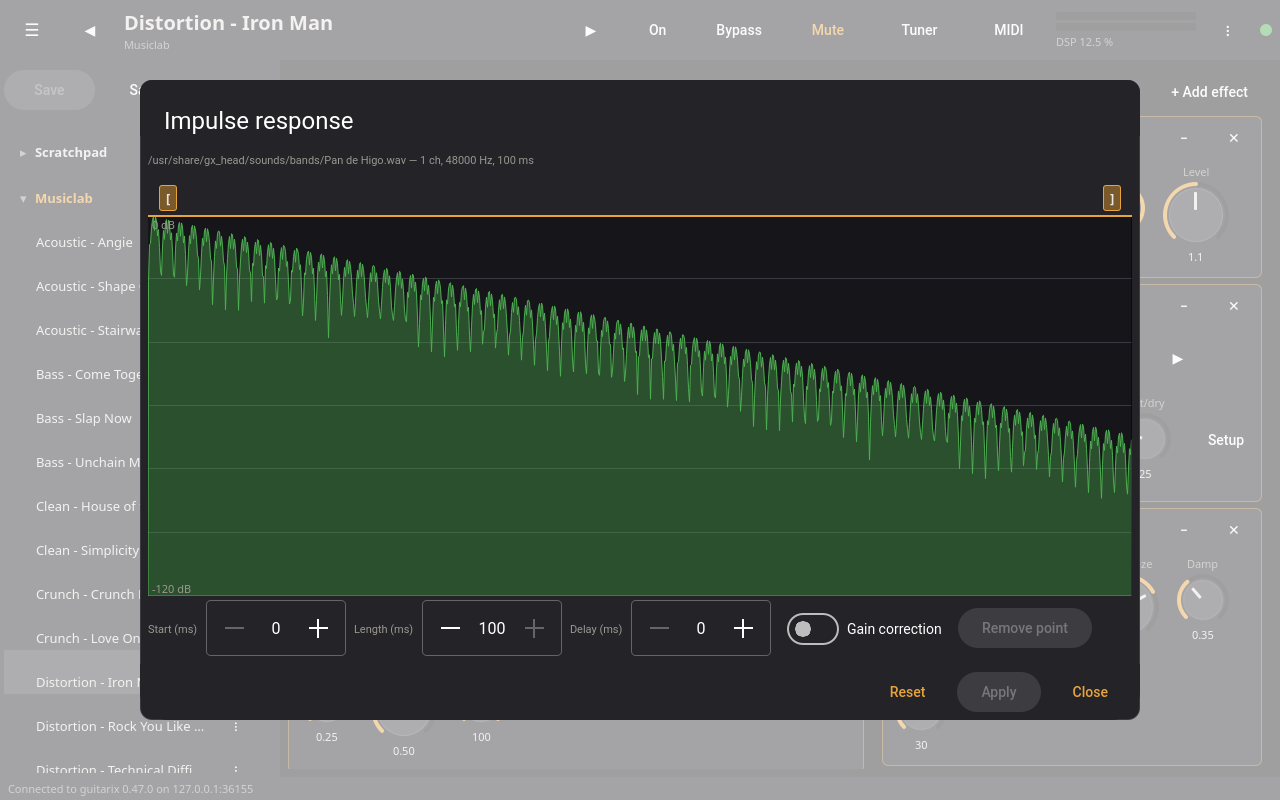
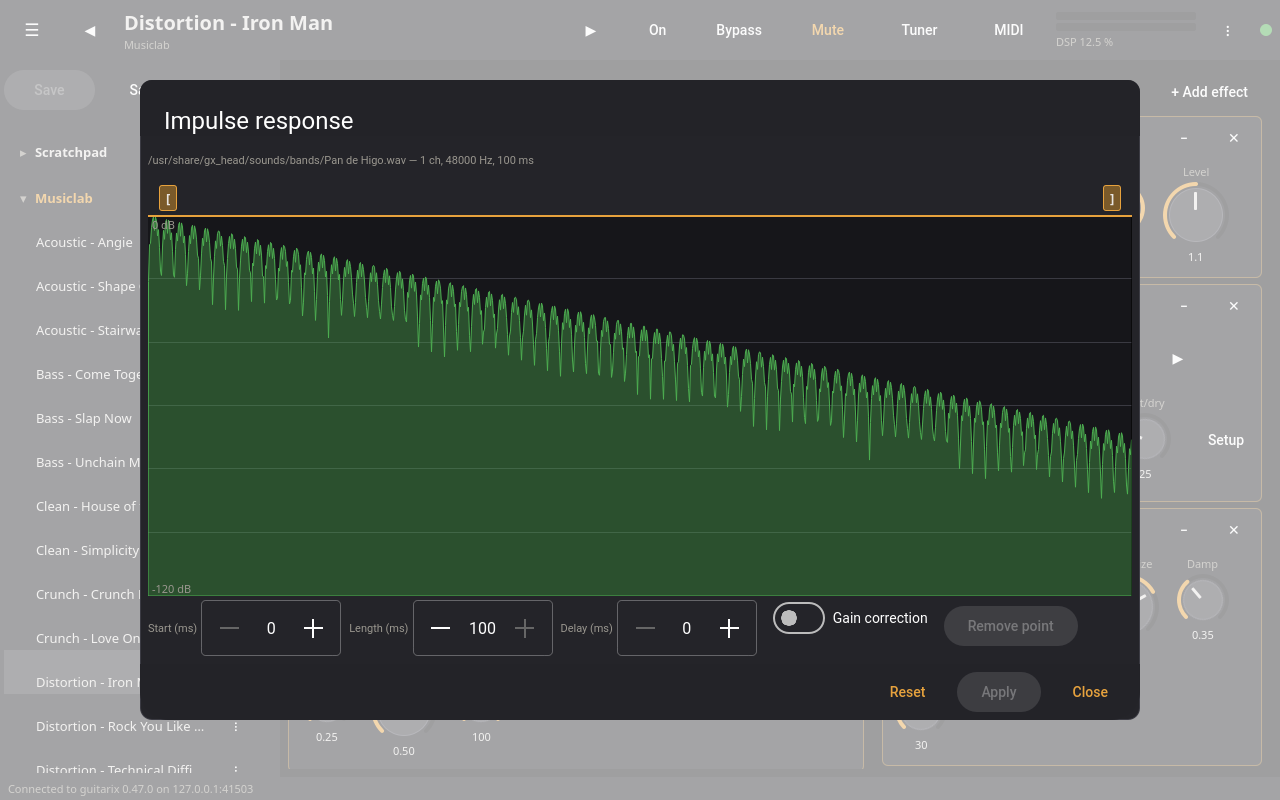
IR editor and sequencer: keep the drag, create the dialogs on first use
- the IR editor handles had a model computed from the settings: the
  first move recreated the handle being dragged and ended the drag
- a closed IR editor no longer follows its convolver (each preset change
  read the whole IR file again)
- the oscilloscope is only polled by its view, while the unit is on
- the IR editor and the drum sequencer are created when first opened
- the IR settings wrap on small screens

diff --git a/qml/IrEditor.qml b/qml/IrEditor.qml
@@ -13,7 +13,6 @@ Dialog {
     // jconv or jconv_mono
     property string unit: ""
     property int selected: -1
-    readonly property bool wide: width >= 640
 
     title: qsTr("Impulse response")
     modal: true
@@ -41,6 +40,9 @@ Dialog {
         unit: root.unit
         onFileLoaded: root.selected = -1
     }
+    // closed, it does not follow the convolver (a preset change would read
+    // the new file); edit() reads it again
+    onClosed: unit = ""
 
     function ms(samples) {
         return ir.rate > 0 ? samples * 1000 / ir.rate : 0
@@ -94,18 +96,17 @@ Dialog {
             enabled: ir.loaded
             visible: ir.loaded
 
+            // a fixed model: a model that changes with the settings would
+            // recreate the handle being dragged
             Repeater {
-                model: [
-                    { name: qsTr("Start"), sample: ir.offset },
-                    { name: qsTr("End"), sample: ir.offset + ir.length - 1 },
-                ]
+                model: 2
                 Item {
                     id: handle
-                    required property var modelData
                     required property int index
+                    readonly property int sample: index === 0 ? ir.offset : ir.offset + ir.length - 1
                     width: Theme.touch
                     height: Theme.touch
-                    x: Math.max(0, Math.min(handles.width - width, view.xForSample(modelData.sample) - width / 2))
+                    x: Math.max(0, Math.min(handles.width - width, view.xForSample(sample) - width / 2))
                     Rectangle {
                         anchors.horizontalCenter: parent.horizontalCenter
                         anchors.bottom: parent.bottom
@@ -218,40 +219,62 @@ Dialog {
             }
         }
 
-        // the settings as numbers, in milliseconds
-        GridLayout {
+        // the settings as numbers, in milliseconds; wraps on small screens
+        Flow {
             Layout.fillWidth: true
-            columns: root.wide ? 8 : 4
-            columnSpacing: Theme.spacing
-            rowSpacing: 2
+            Layout.preferredHeight: childrenRect.height
+            spacing: Theme.spacing
             enabled: ir.loaded
 
-            Label { text: qsTr("Start (ms)"); font.pixelSize: Theme.fontSmall; color: Theme.textDim }
-            SpinBox {
-                from: 0
-                to: Math.max(0, Math.round(root.ms(ir.frames - 1)))
-                value: Math.round(root.ms(ir.offset))
-                editable: true
-                onValueModified: ir.offset = root.samples(value)
+            Row {
+                spacing: 4
+                Label {
+                    anchors.verticalCenter: parent.verticalCenter
+                    text: qsTr("Start (ms)")
+                    font.pixelSize: Theme.fontSmall
+                    color: Theme.textDim
+                }
+                SpinBox {
+                    from: 0
+                    to: Math.max(0, Math.round(root.ms(ir.frames - 1)))
+                    value: Math.round(root.ms(ir.offset))
+                    editable: true
+                    onValueModified: ir.offset = root.samples(value)
+                }
             }
-            Label { text: qsTr("Length (ms)"); font.pixelSize: Theme.fontSmall; color: Theme.textDim }
-            SpinBox {
-                from: 1
-                to: Math.max(1, Math.round(root.ms(ir.frames)))
-                value: Math.round(root.ms(ir.length))
-                editable: true
-                onValueModified: ir.length = root.samples(value)
+            Row {
+                spacing: 4
+                Label {
+                    anchors.verticalCenter: parent.verticalCenter
+                    text: qsTr("Length (ms)")
+                    font.pixelSize: Theme.fontSmall
+                    color: Theme.textDim
+                }
+                SpinBox {
+                    from: 1
+                    to: Math.max(1, Math.round(root.ms(ir.frames)))
+                    value: Math.round(root.ms(ir.length))
+                    editable: true
+                    onValueModified: ir.length = root.samples(value)
+                }
             }
-            Label { text: qsTr("Delay (ms)"); font.pixelSize: Theme.fontSmall; color: Theme.textDim }
-            SpinBox {
-                from: 0
-                to: 10000
-                value: Math.round(root.ms(ir.delay))
-                editable: true
-                onValueModified: ir.delay = root.samples(value)
+            Row {
+                spacing: 4
+                Label {
+                    anchors.verticalCenter: parent.verticalCenter
+                    text: qsTr("Delay (ms)")
+                    font.pixelSize: Theme.fontSmall
+                    color: Theme.textDim
+                }
+                SpinBox {
+                    from: 0
+                    to: 10000
+                    value: Math.round(root.ms(ir.delay))
+                    editable: true
+                    onValueModified: ir.delay = root.samples(value)
+                }
             }
             Switch {
-                Layout.columnSpan: 1
                 text: qsTr("Gain correction")
                 checked: ir.gainCorrection
                 onToggled: ir.gainCorrection = checked

diff --git a/qml/Control.qml b/qml/Control.qml
@@ -17,7 +17,8 @@ Item {
     // outputs shown as values or switches (the looper's buffer time,
     // record and play) change in the engine without notification
     OutputWatch {
-        paramId: root.param && root.param.isOutput && root.widget !== "meter" && !root.node.id2 ? root.param.id : ""
+        paramId: root.param && root.param.isOutput && root.widget !== "meter" && root.widget !== "oscilloscope"
+                 && !root.node.id2 ? root.param.id : ""
         active: root.visible
     }
 
@@ -106,18 +107,27 @@ Item {
             clip: Gx.ready ? Gx.param(root.node.id3) : null
         }
     }
-    // the button opening the IR editor of a convolver
+    // the button opening the IR editor of a convolver; the dialogs are
+    // created when first opened
     Component {
         id: irEdit
         Button {
-            id: irButton
             readonly property string unit: (root.node.id || "").replace(/\.convolver$/, "")
             text: root.node.label || qsTr("Setup")
             implicitHeight: Math.max(Theme.touch, implicitContentHeight + topPadding + bottomPadding)
-            onClicked: editor.edit(unit)
-            IrEditor { id: editor }
+            property var editor: null
+            function show() {
+                if (!editor)
+                    editor = editorComponent.createObject(this)
+                editor.edit(unit)
+            }
+            onClicked: show()
+            Component {
+                id: editorComponent
+                IrEditor {}
+            }
             readonly property bool debugOpen: Gx.ready && visible && root.debugState("iredit:" + unit)
-            onDebugOpenChanged: if (debugOpen) editor.edit(unit)
+            onDebugOpenChanged: if (debugOpen) show()
         }
     }
     Component {
@@ -125,10 +135,19 @@ Item {
         Button {
             text: root.node.label || qsTr("Setup")
             implicitHeight: Math.max(Theme.touch, implicitContentHeight + topPadding + bottomPadding)
-            onClicked: dialog.open()
-            SequencerDialog { id: dialog }
+            property var dialog: null
+            function show() {
+                if (!dialog)
+                    dialog = dialogComponent.createObject(this)
+                dialog.open()
+            }
+            onClicked: show()
+            Component {
+                id: dialogComponent
+                SequencerDialog {}
+            }
             readonly property bool debugOpen: Gx.ready && visible && root.debugState("sequencer")
-            onDebugOpenChanged: if (debugOpen) dialog.open()
+            onDebugOpenChanged: if (debugOpen) show()
         }
     }
     Component {

diff --git a/tests/tst_ui.cpp b/tests/tst_ui.cpp
@@ -73,7 +73,8 @@ void TestUi::states_data() {
     QTest::newRow("oscilloscope") << QStringLiteral("unit:oscilloscope") << QStringLiteral("1280x800") << 2 << false
                                   << QString();
     QTest::newRow("iredit") << QStringLiteral("iredit:jconv") << QStringLiteral("1280x800") << 2 << false << QString();
-    QTest::newRow("iredit-small") << QStringLiteral("iredit:jconv") << QStringLiteral("800x480") << 2 << false
+    // the mono rack is the tab shown
+    QTest::newRow("iredit-small") << QStringLiteral("iredit:jconv_mono") << QStringLiteral("800x480") << 2 << false
                                   << QString();
     QTest::newRow("sequencer") << QStringLiteral("unit:seq,sequencer") << QStringLiteral("1280x800") << 2 << false
                                << QString();
